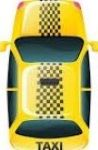
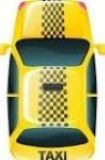
fixed size frame

diff --git a/Game/GameScene.java b/Game/GameScene.java
@@ -37,7 +37,7 @@ public class GameScene extends JPanel {
         FRAME_RIGHT = new Rectangles(width-19, 0, 5, height, Color.green);
         FRAME_LEFT = new Rectangles(0, 0, 5, height, Color.green);
 
-        this.rectangle = new Rectangles(250, height-200, 93, 144, Color.WHITE);
+        this.rectangle = new Rectangles(250, height-200, 102, 160, Color.WHITE);
         this.frame = new Frame(this.rectangle);
         this.image = new ImageIcon("Game\\MyCar.jpg");
         this.imageCar = new My_Image(image, 250, height-200, frame);
@@ -86,7 +86,7 @@ public class GameScene extends JPanel {
                     randomCars = new ImageIcon("Game\\MyCar.jpg");
                     break;
             }
-            rectangles[i] = new Rectangles(X, Y, 93, 144, Color.WHITE);
+            rectangles[i] = new Rectangles(X, Y, 102, 160, Color.WHITE);
             obstacles[i] = new My_Image(
                     this.cars = randomCars,
                     X,
